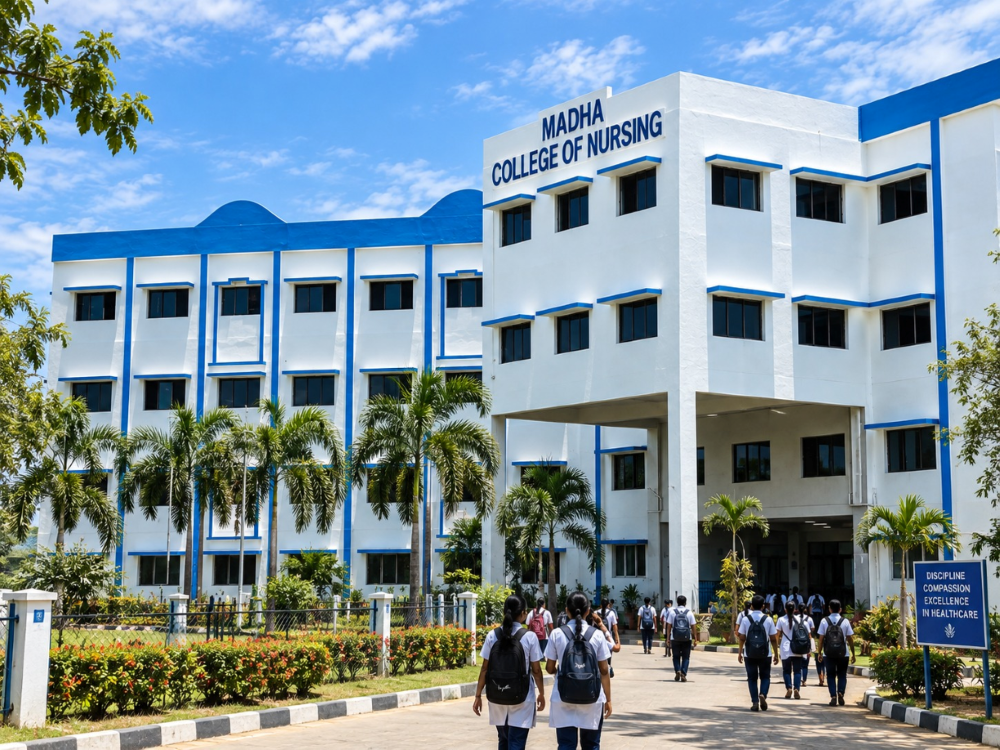
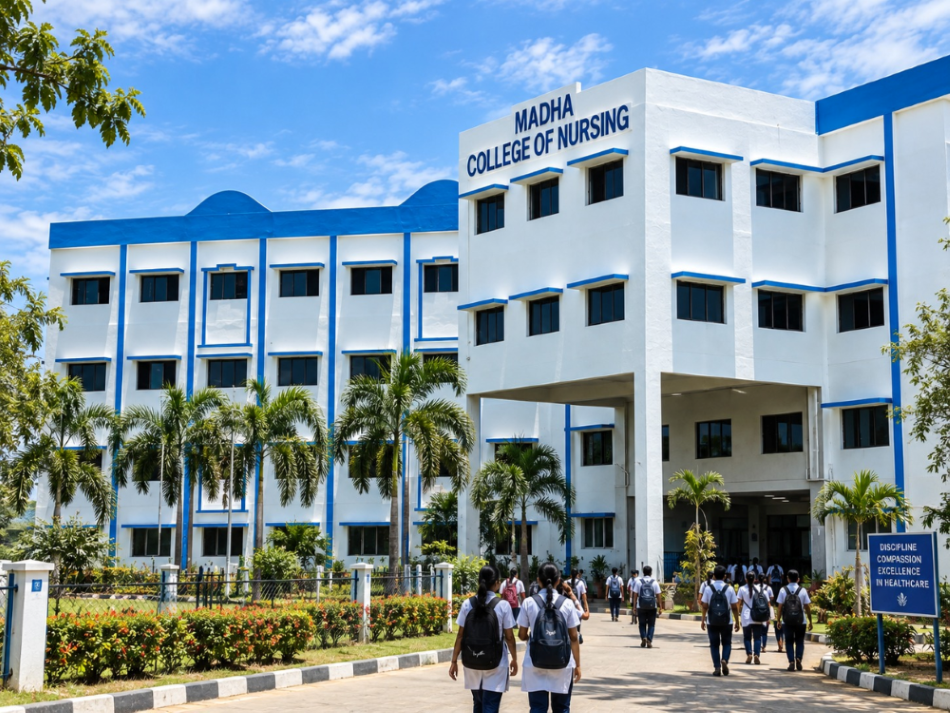
Update admission enquiry email integration and contact page

diff --git a/src/pages/Contact.tsx b/src/pages/Contact.tsx
@@ -35,7 +35,7 @@ export default function Contact({ navigate }: Props) {
   }
 
   try {
-    const response = await fetch('/api/admission-enquiry', {
+    const response = await fetch('http://localhost:5001/api/admission-enquiry', {
       method: 'POST',
       headers: {
         'Content-Type': 'application/json',

diff --git a/src/backend/MadhaNursing.Api/Controllers/AdmissionEnquiryController.cs b/src/backend/MadhaNursing.Api/Controllers/AdmissionEnquiryController.cs
@@ -210,7 +210,7 @@ namespace MadhaNursing.Api.Controllers
                 await smtp.SendMailAsync(mail);
 
                 Console.WriteLine(
-                    "Admission enquiry email sent successfully through Gmail SMTP."
+                    "Admission enquiry email sent successfully through SMTP."
                 );
 
                 return Ok(new
